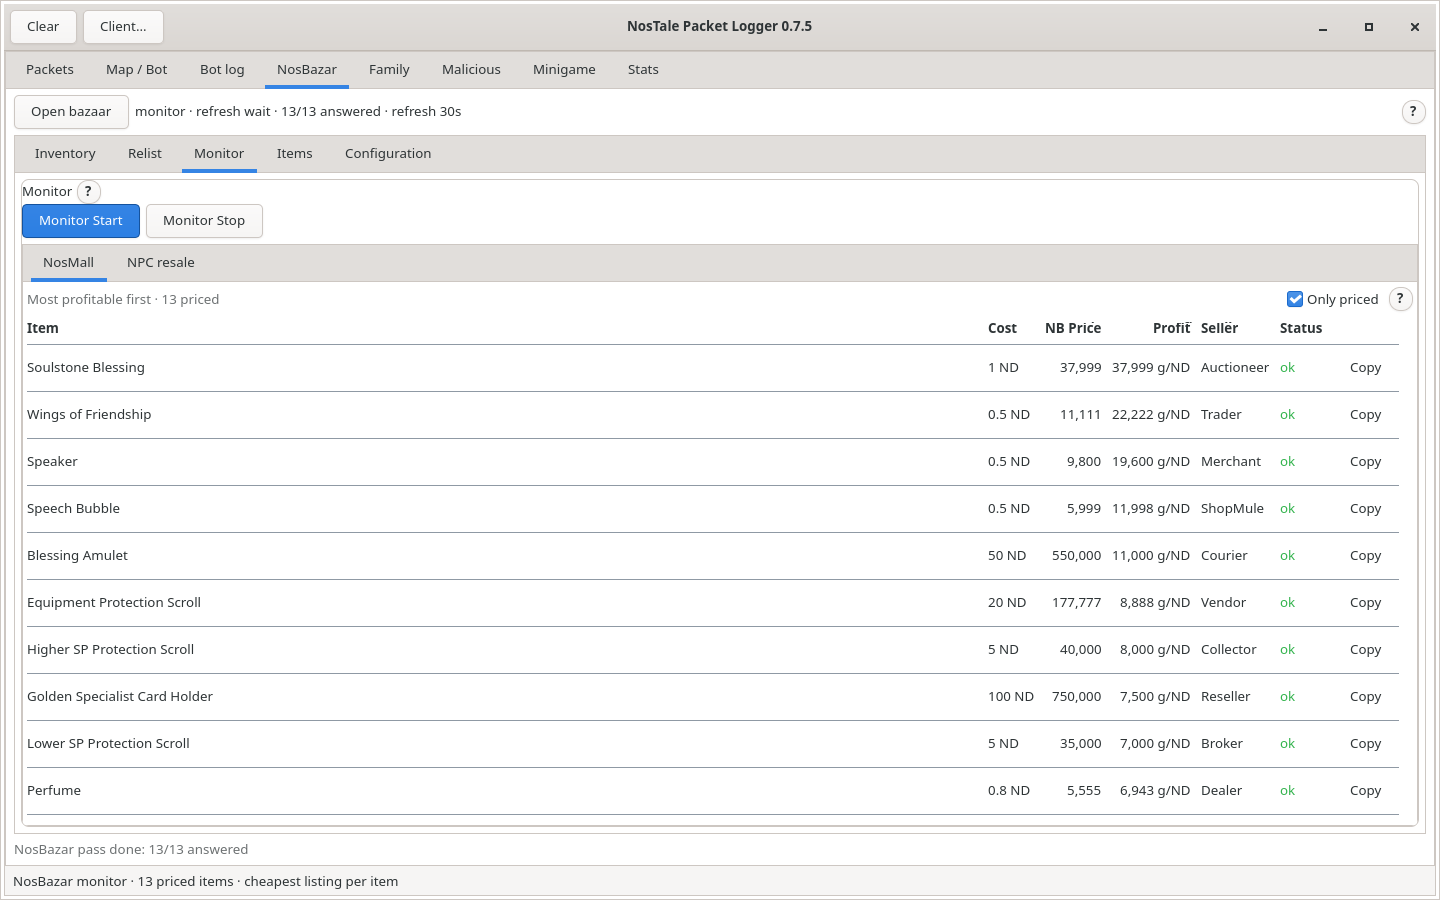
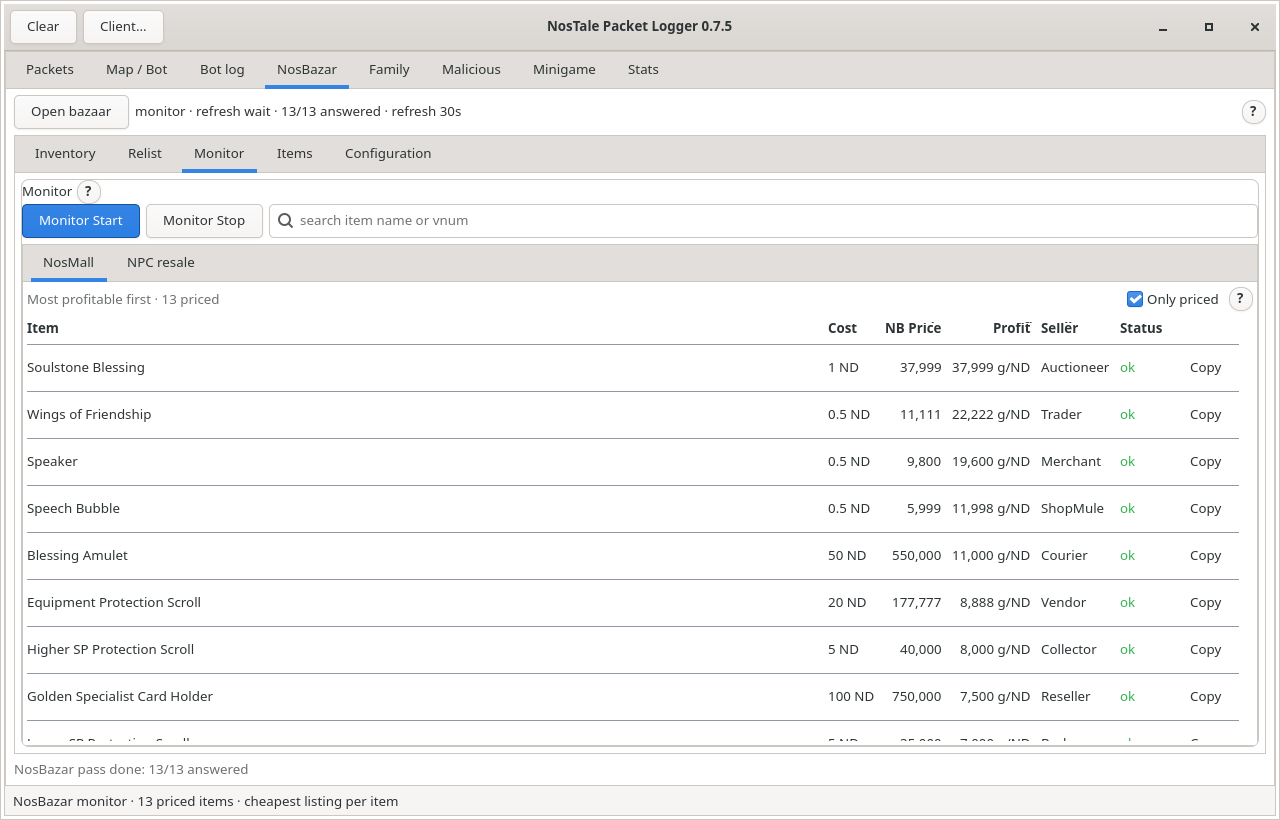
NosBazar Monitor: search field filtering both tabs
With a few hundred scanned inventory items the Monitor table is long and
a specific row is hard to find. Add one search entry above the tab bar;
it filters both the NosMall and NPC resale views at once by the real item
name or by vnum. The info line counts matches and how many Only priced
hides, and a search with no priced match says so instead of an empty
table. Esc/clear restores the full table.

The bazar smoke types a name and a vnum, checks both tabs filter and
that clearing restores the count; the bazar screenshot is regenerated.

diff --git a/linux/host/ntpl/gui.py b/linux/host/ntpl/gui.py
@@ -678,6 +678,7 @@ class Application(Gtk.Application):
         self.bazar_results_infos: dict[str, Gtk.Label] = {}
         self.bazar_only_priced_checks: dict[str, Gtk.CheckButton] = {}
         self.bazar_monitor_notebook = None
+        self.bazar_monitor_search = None
         self._bazar_monitor_sources = MONITOR_SOURCES
         self.bazar_items_list = None
         self.bazar_items_info = None
@@ -3740,14 +3741,29 @@ class Application(Gtk.Application):
             for quote in quotes
             if monitor_source(quote.item) == source
         ]
+        needle = ""
+        if self.bazar_monitor_search is not None:
+            needle = self.bazar_monitor_search.get_text().strip().casefold()
+        if needle:
+            items = [
+                quote
+                for quote in items
+                if needle in self._bazar_item_label(quote.item).casefold()
+                or needle in str(quote.item.vnum or "")
+                or any(needle in str(vnum) for vnum in quote.item.vnums)
+            ]
         if not items:
             if info is not None:
-                info.set_text("No items")
+                info.set_text("No items" if not needle else "No match")
             empty = Gtk.Label(
                 label=(
-                    "No NPC-resale items yet."
-                    if source == "npc"
-                    else "No NosMall items yet."
+                    f'No item matches "{needle}".'
+                    if needle
+                    else (
+                        "No NPC-resale items yet."
+                        if source == "npc"
+                        else "No NosMall items yet."
+                    )
                 )
             )
             empty.set_xalign(0)
@@ -3763,7 +3779,10 @@ class Application(Gtk.Application):
             visible = list(items)
         hidden = len(items) - len(visible)
         if info is not None:
-            text = "Most profitable first"
+            text = (
+                f"{len(items)} match(es)" if needle
+                else "Most profitable first"
+            )
             if only_priced:
                 text += f" · {len(visible)} priced"
             if hidden:
@@ -3771,7 +3790,13 @@ class Application(Gtk.Application):
             info.set_text(text)
 
         if not visible:
-            empty = Gtk.Label(label="No priced items yet.")
+            empty = Gtk.Label(
+                label=(
+                    f'No priced match for "{needle}".'
+                    if needle
+                    else "No priced items yet."
+                )
+            )
             empty.set_xalign(0)
             empty.add_css_class("dim-label")
             box.append(empty)
@@ -4600,6 +4625,20 @@ class Application(Gtk.Application):
         monitor_stop = Gtk.Button(label="Monitor Stop")
         monitor_stop.connect("clicked", lambda *_: self._bazar_stop())
         tools.append(monitor_stop)
+        # One search shared by both Monitor tabs. With a few hundred
+        # scanned inventory items the table is long; typing a name or vnum
+        # narrows both views at once.
+        search = Gtk.SearchEntry()
+        search.set_placeholder_text("search item name or vnum")
+        search.set_hexpand(True)
+        search.set_tooltip_text(
+            "Filter both Monitor tabs by item name or vnum."
+        )
+        search.connect(
+            "search-changed", lambda *_: self._bazar_render_results()
+        )
+        self.bazar_monitor_search = search
+        tools.append(search)
         content.append(tools)
 
         # Third-level navbar: one shared search pass, two dashboards split by
@@ -4666,7 +4705,8 @@ class Application(Gtk.Application):
                 "the gold markup (listing price ÷ NPC price); Cost is the "
                 "NPC purchase price. Add one in Items with Cost = NPC gold; "
                 "leaving the cost at 0 fills the Item.dat price on save. "
-                "One Monitor Start searches this list together with NosMall."
+                "One Monitor Start searches this list together with NosMall. "
+                "The search box above filters both tabs by item name or vnum."
             )
         else:
             help_title = "NosMall monitor"
@@ -4675,7 +4715,8 @@ class Application(Gtk.Application):
                 "is still unknown (price discovery). Profit is the listing "
                 "price in gold per ND spent. Import catalog groups with "
                 "Import NosMall… in Items and set their ND cost. One Monitor "
-                "Start searches this list together with NPC resale."
+                "Start searches this list together with NPC resale. The "
+                "search box above filters both tabs by item name or vnum."
             )
         tools.append(self._help_button(help_title, help_text))
         view.append(tools)

diff --git a/linux/test/gui_bazar_smoke.py b/linux/test/gui_bazar_smoke.py
@@ -371,6 +371,35 @@ def main() -> int:
                 and active_npc_name.get_text() == "Pet Food"
             )
 
+            # The Monitor search narrows both tabs by item name or vnum.
+            search = app.bazar_monitor_search
+            search_ok = False
+            if search is not None:
+                search.set_text("speech")
+                app._bazar_render_results()
+                nosmall_info = app.bazar_results_infos["nosmall"].get_text()
+                npc_info = app.bazar_results_infos["npc"].get_text()
+                matched_row = first_item_cell()
+                search.set_text("2174")
+                app._bazar_render_results()
+                vnum_info = app.bazar_results_infos["nosmall"].get_text()
+                search.set_text("no such item")
+                app._bazar_render_results()
+                miss_info = app.bazar_results_infos["nosmall"].get_text()
+                search.set_text("")
+                app._bazar_render_results()
+                reset_info = app.bazar_results_infos["nosmall"].get_text()
+                search_ok = (
+                    "1 match(es)" in nosmall_info
+                    and "1 priced" in nosmall_info
+                    and npc_info == "No match"
+                    and matched_row is not None
+                    and matched_row.get_text() == "Speech Bubble"
+                    and "1 match(es)" in vnum_info
+                    and miss_info == "No match"
+                    and reset_info.startswith("Most profitable first")
+                )
+
             # The editor auto-fills an NPC gold cost from Item.dat, so
             # adding Bell of Sweet Home needs only the vnum.
             app.bazar_form["name"].set_text("bell")
@@ -480,6 +509,7 @@ def main() -> int:
                 and forms_ok
                 and copy_label_ok
                 and copy_ok
+                and search_ok
                 and reload_ok
                 and app.bazar.mode == "monitor"
             )
@@ -495,7 +525,7 @@ def main() -> int:
                 f"lists={items_before!r}/{relist_before!r}->"
                 f"{items_after!r}/{relist_after!r} "
                 f"forms_kept={forms_ok} copy={copy_label_ok} "
-                f"copy_button={copy_ok} "
+                f"copy_button={copy_ok} search={search_ok} "
                 f"reload={reload_ok} "
                 f"saved={saved} separators={separators} "
                 f"mode={app.bazar.mode} phase={app.bazar.phase} "

diff --git a/docs/bazar.md b/docs/bazar.md
@@ -117,7 +117,11 @@ full-width section: **Inventory**, **Relist**, **Monitor**, **Items** and
 
 One **Monitor Start** searches every enabled configured item, both views
 included. Each view has its own **Only priced** filter and row count; cycles
-update both tables and never clear the other view.
+update both tables and never clear the other view. The **search box** above
+the tabs filters both views at once by item name (the real Item.dat name) or
+by vnum; with hundreds of scanned inventory items this is how to find one
+row. The info line counts the matches and how many the Only priced filter
+hides; a search with no priced match says so instead of an empty table.
 
 ## What the controller does
 
@@ -523,9 +527,10 @@ shortcut in the tooltip), that a late name load updates the Monitor, the
 Items list and the Relist list from the shortcut to the real name without
 overwriting unsaved editor values, that every Monitor row has the one-click
 Copy button and the controller is wired to the vnum→name resolver, that the
-row copy label and the Delete message (even while a pass stops) use the real
-name, that **Reload names** drops the one-shot name cache, and that no
-`c_reg` was sent.
+Monitor search filters both tabs by item name and by vnum and clears back to
+the full table, that the row copy label and the Delete message (even while a
+pass stops) use the real name, that **Reload names** drops the one-shot name
+cache, and that no `c_reg` was sent.
 `gui_bazar_relist_smoke.py` starts the relist with a plain **Relist Start**
 (no extra checkbox) and asserts the exact `c_reg` packet and the
 `register-sent` status; `gui_bazar_change_smoke.py` asserts the `c_mod`
